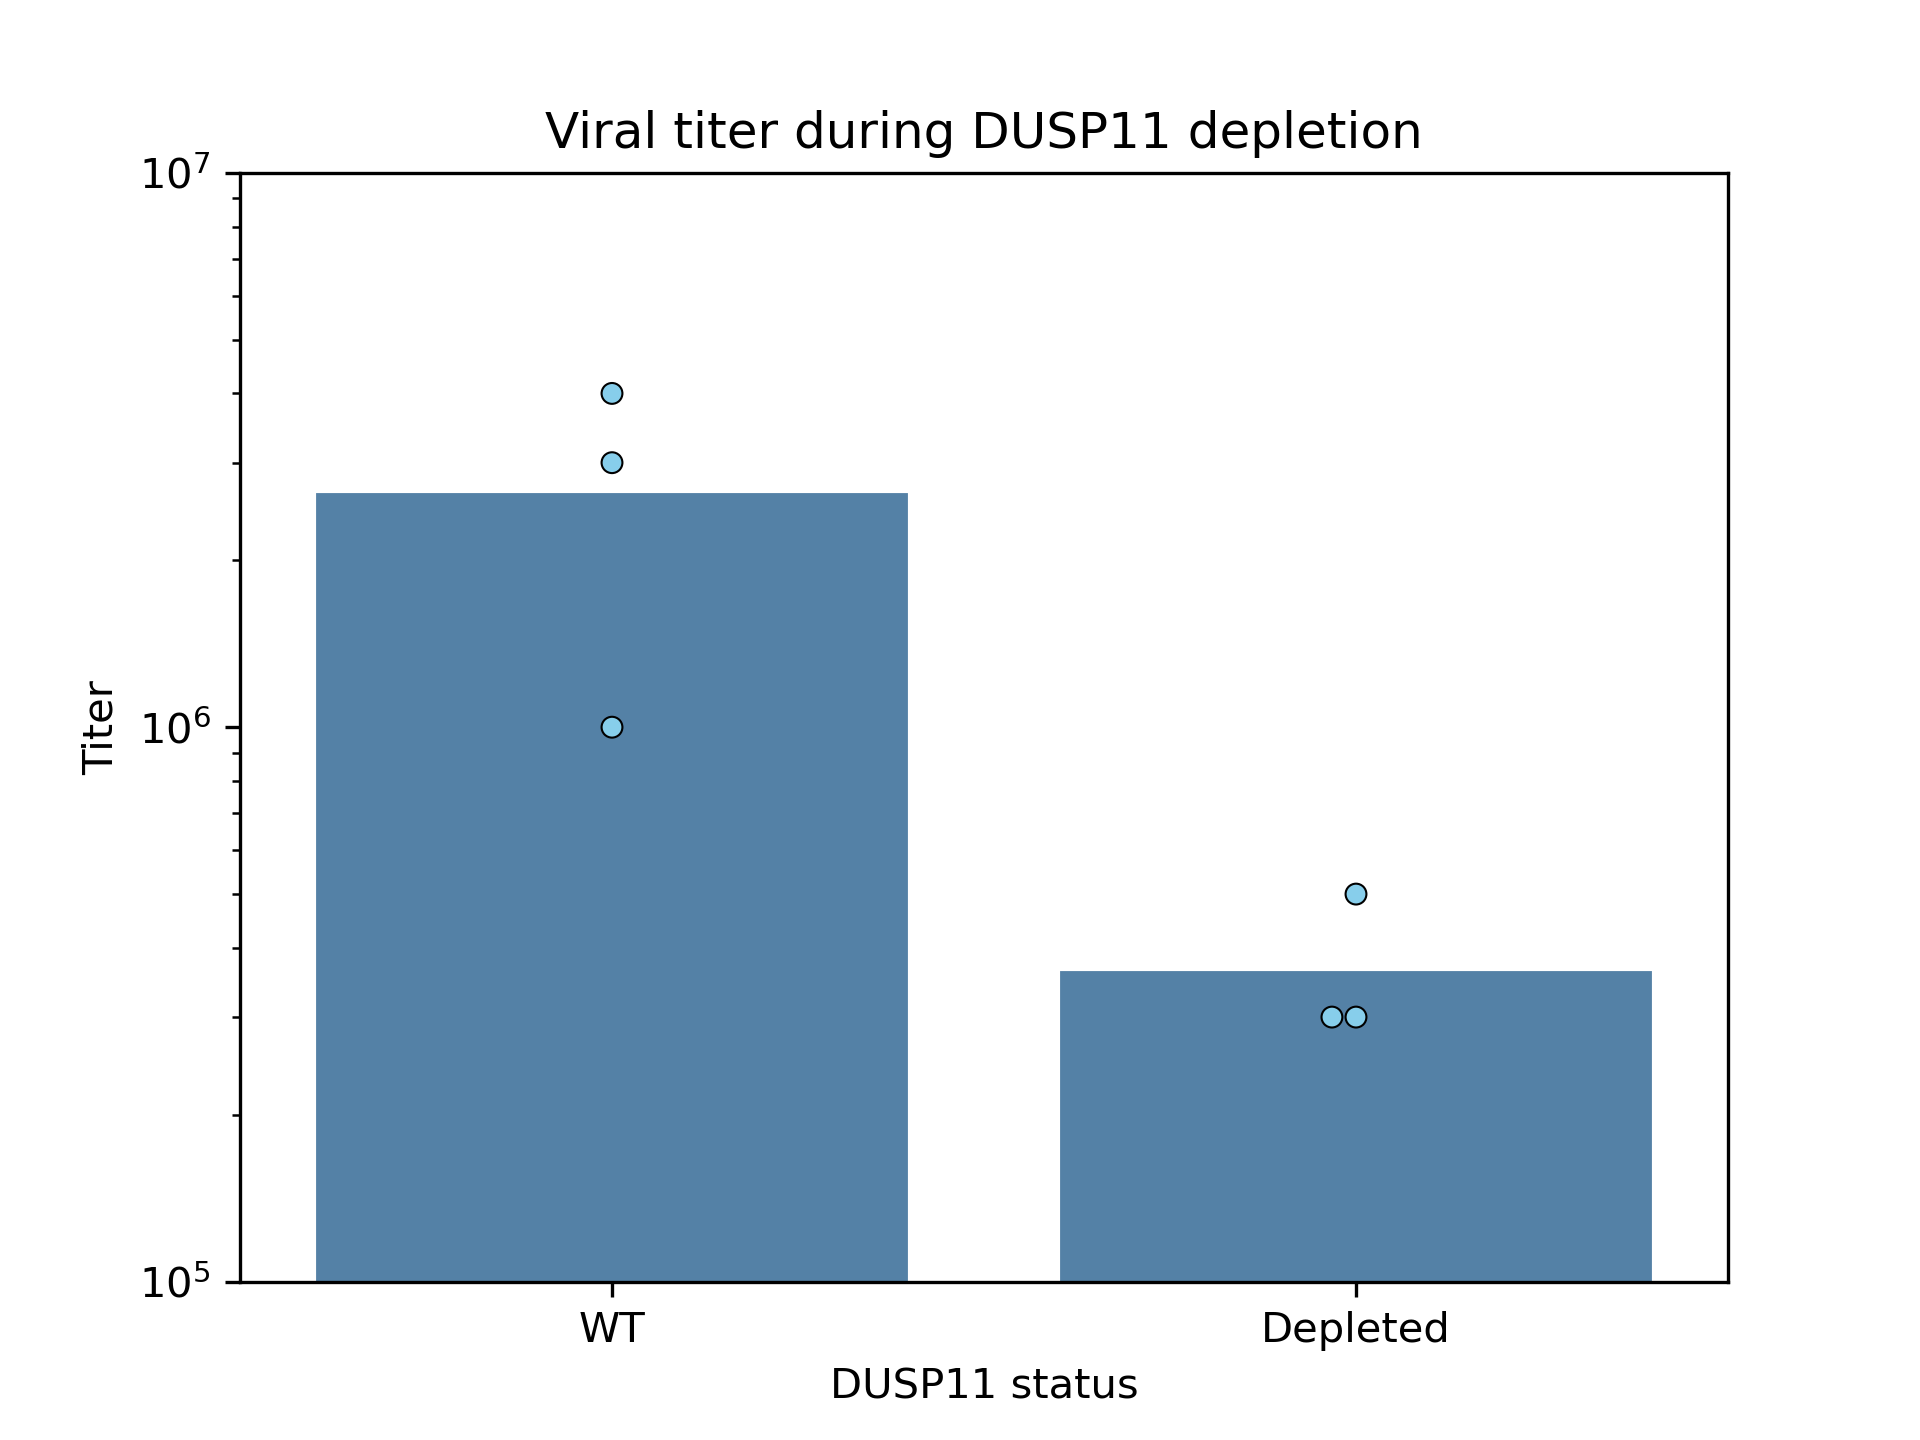
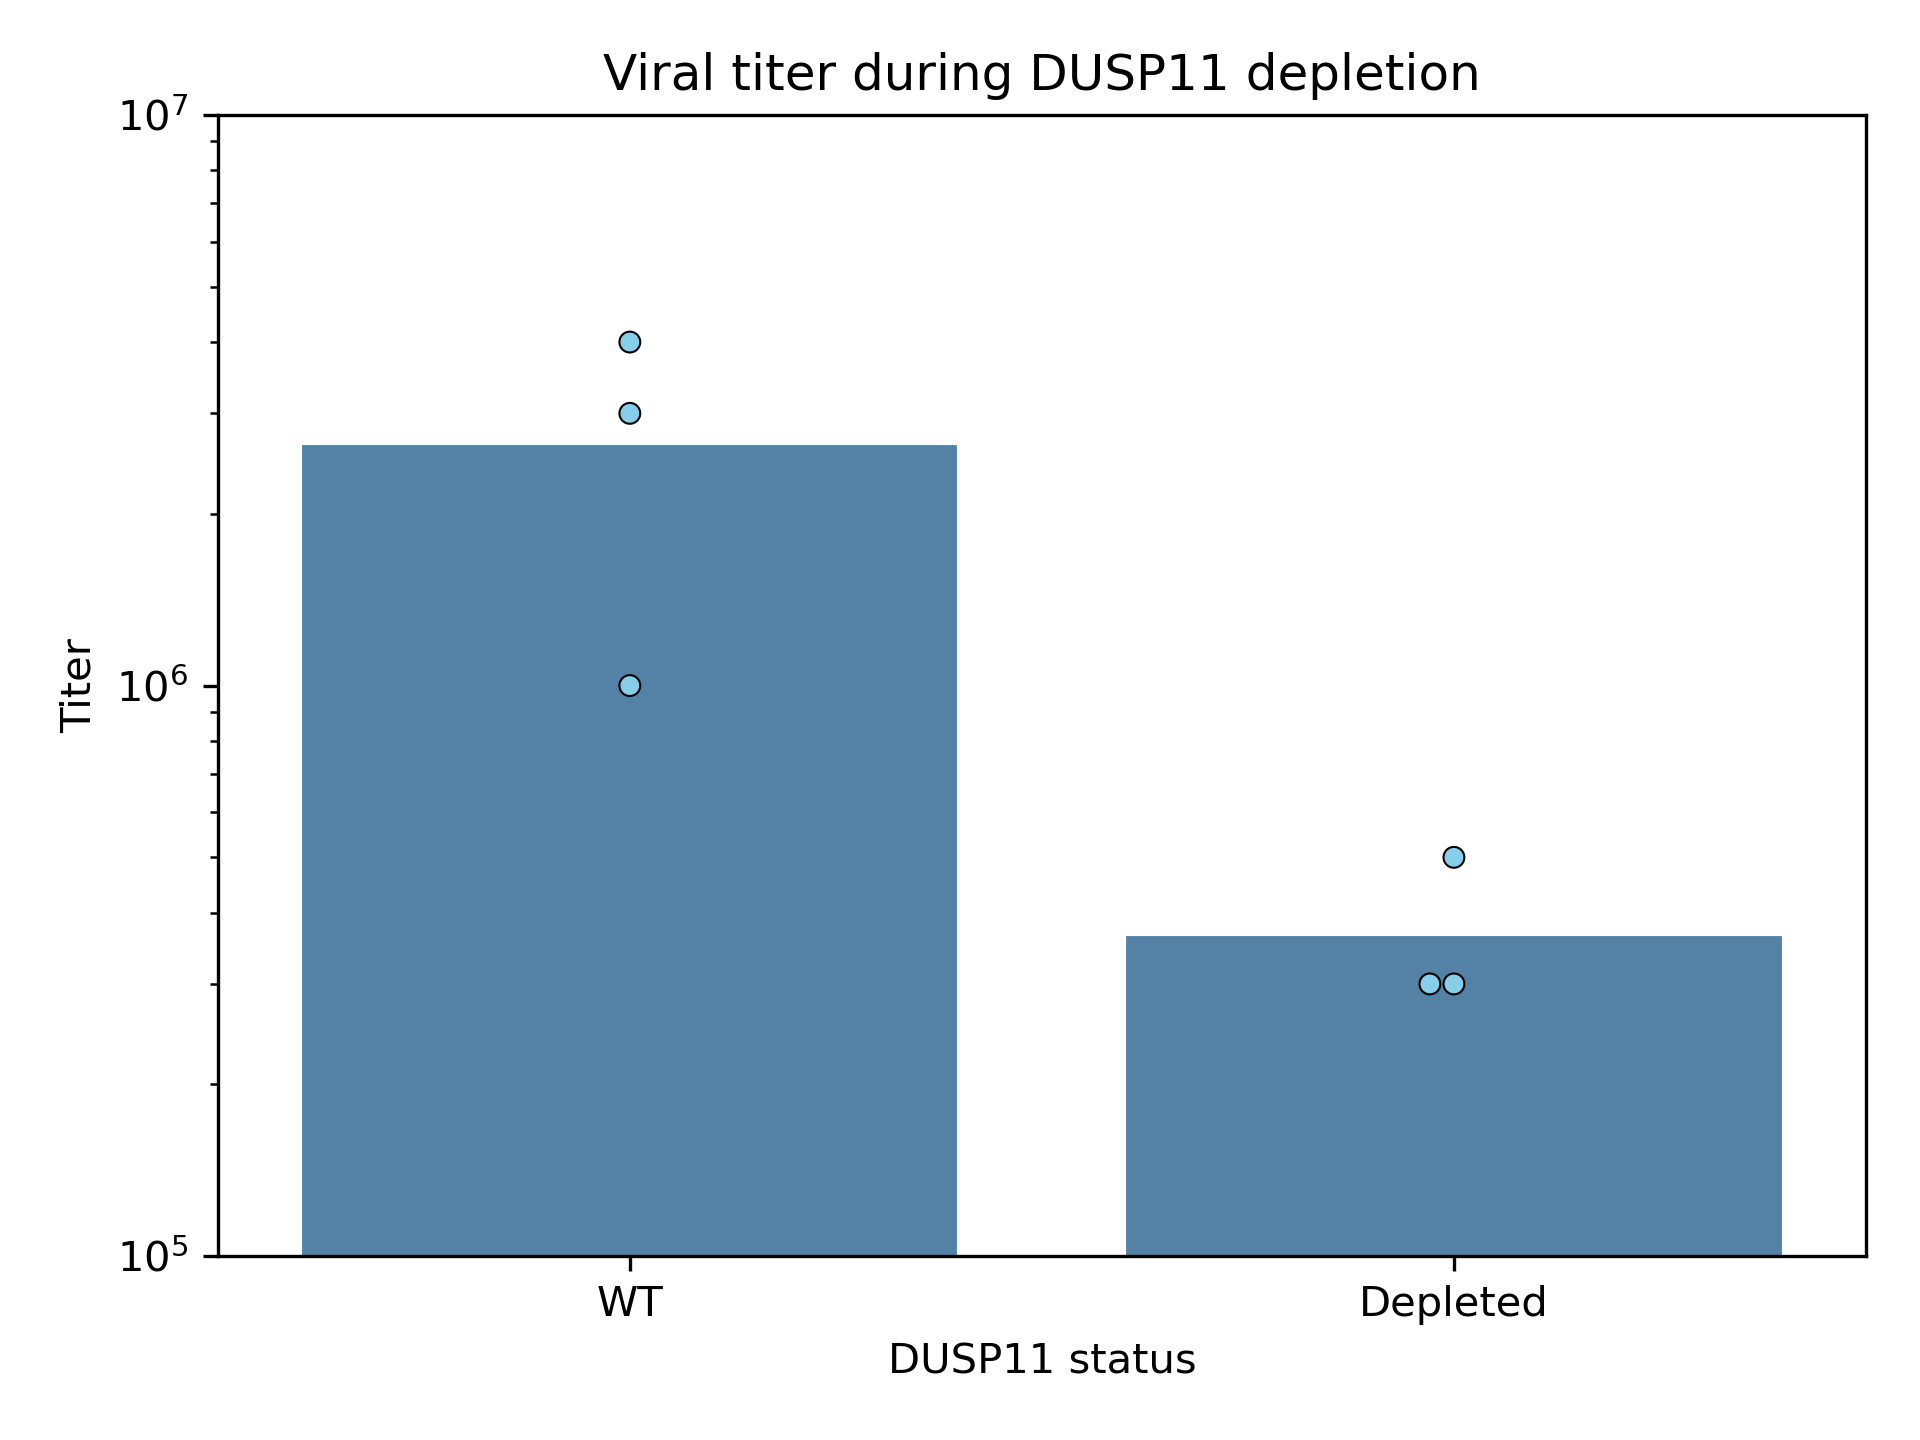
tight_layout()

Changed region(s): [[0.0312, 0.0312, 0.9688, 0.9375], [0.4375, 0.9375, 0.625, 0.9688], [0.3125, 0.4688, 0.3438, 0.5312]]

diff --git a/TN042/TN042.2.py b/TN042/TN042.2.py
@@ -27,6 +27,7 @@ plt.xlabel("DUSP11 status")
 plt.xticks([0, 1], ["WT", "Depleted"])  
 plt.ylim(1e5, 1e7)
 plt.title("Viral titer during DUSP11 depletion")
+plt.tight_layout()
 
 # Calculate the p-value
 ttest = pg.ttest(
